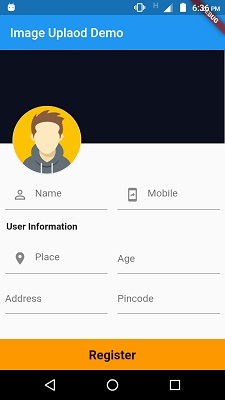
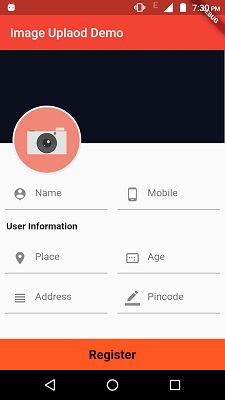
Minor changes

diff --git a/lib/main.dart b/lib/main.dart
@@ -71,6 +71,7 @@ class _MyHomePageState extends State<MyHomePage> {
       key: _scaffoldKey,
       appBar: AppBar(
         title: Text(widget.title),
+        backgroundColor: Colors.red,
       ),
       body: SingleChildScrollView(
         child: Stack(
@@ -96,7 +97,7 @@ class _MyHomePageState extends State<MyHomePage> {
                           controller: name,
                           autofocus: false,
                           decoration: InputDecoration(
-                            prefixIcon: Icon(Icons.perm_identity),
+                            prefixIcon: Icon(Icons.person_pin),
                             hintText: 'Name',
                           ),
                         ),
@@ -109,7 +110,7 @@ class _MyHomePageState extends State<MyHomePage> {
                           controller: mobile,
                           autofocus: false,
                           decoration: InputDecoration(
-                            prefixIcon: Icon(Icons.mobile_screen_share),
+                            prefixIcon: Icon(Icons.phone_android),
                             hintText: 'Mobile',
                           ),
                         ),
@@ -154,10 +155,9 @@ class _MyHomePageState extends State<MyHomePage> {
                           ],
                           decoration: InputDecoration(
                             hintText: 'Age',
+                            prefixIcon: Icon(Icons.image_aspect_ratio),
                           ),
-                          onTap: () {
-                            new TextEditingController().clear();
-                          },
+
                         ),
                       ),
                     ),
@@ -177,6 +177,7 @@ class _MyHomePageState extends State<MyHomePage> {
                           ],
                           decoration: InputDecoration(
                             hintText: 'Address',
+                            prefixIcon: Icon(Icons.view_headline),
                           ),
                         ),
                       ),
@@ -192,6 +193,7 @@ class _MyHomePageState extends State<MyHomePage> {
                           ],
                           decoration: InputDecoration(
                             hintText: 'Pincode',
+                            prefixIcon: Icon(Icons.border_color),
                           ),
                         ),
                       ),
@@ -204,7 +206,7 @@ class _MyHomePageState extends State<MyHomePage> {
                     child: Container(
                       height: 50,
                       width: double.infinity,
-                      color: Colors.orange,
+                      color: Colors.deepOrange,
                       child: Center(
                           child: Text(
                         "Register",
